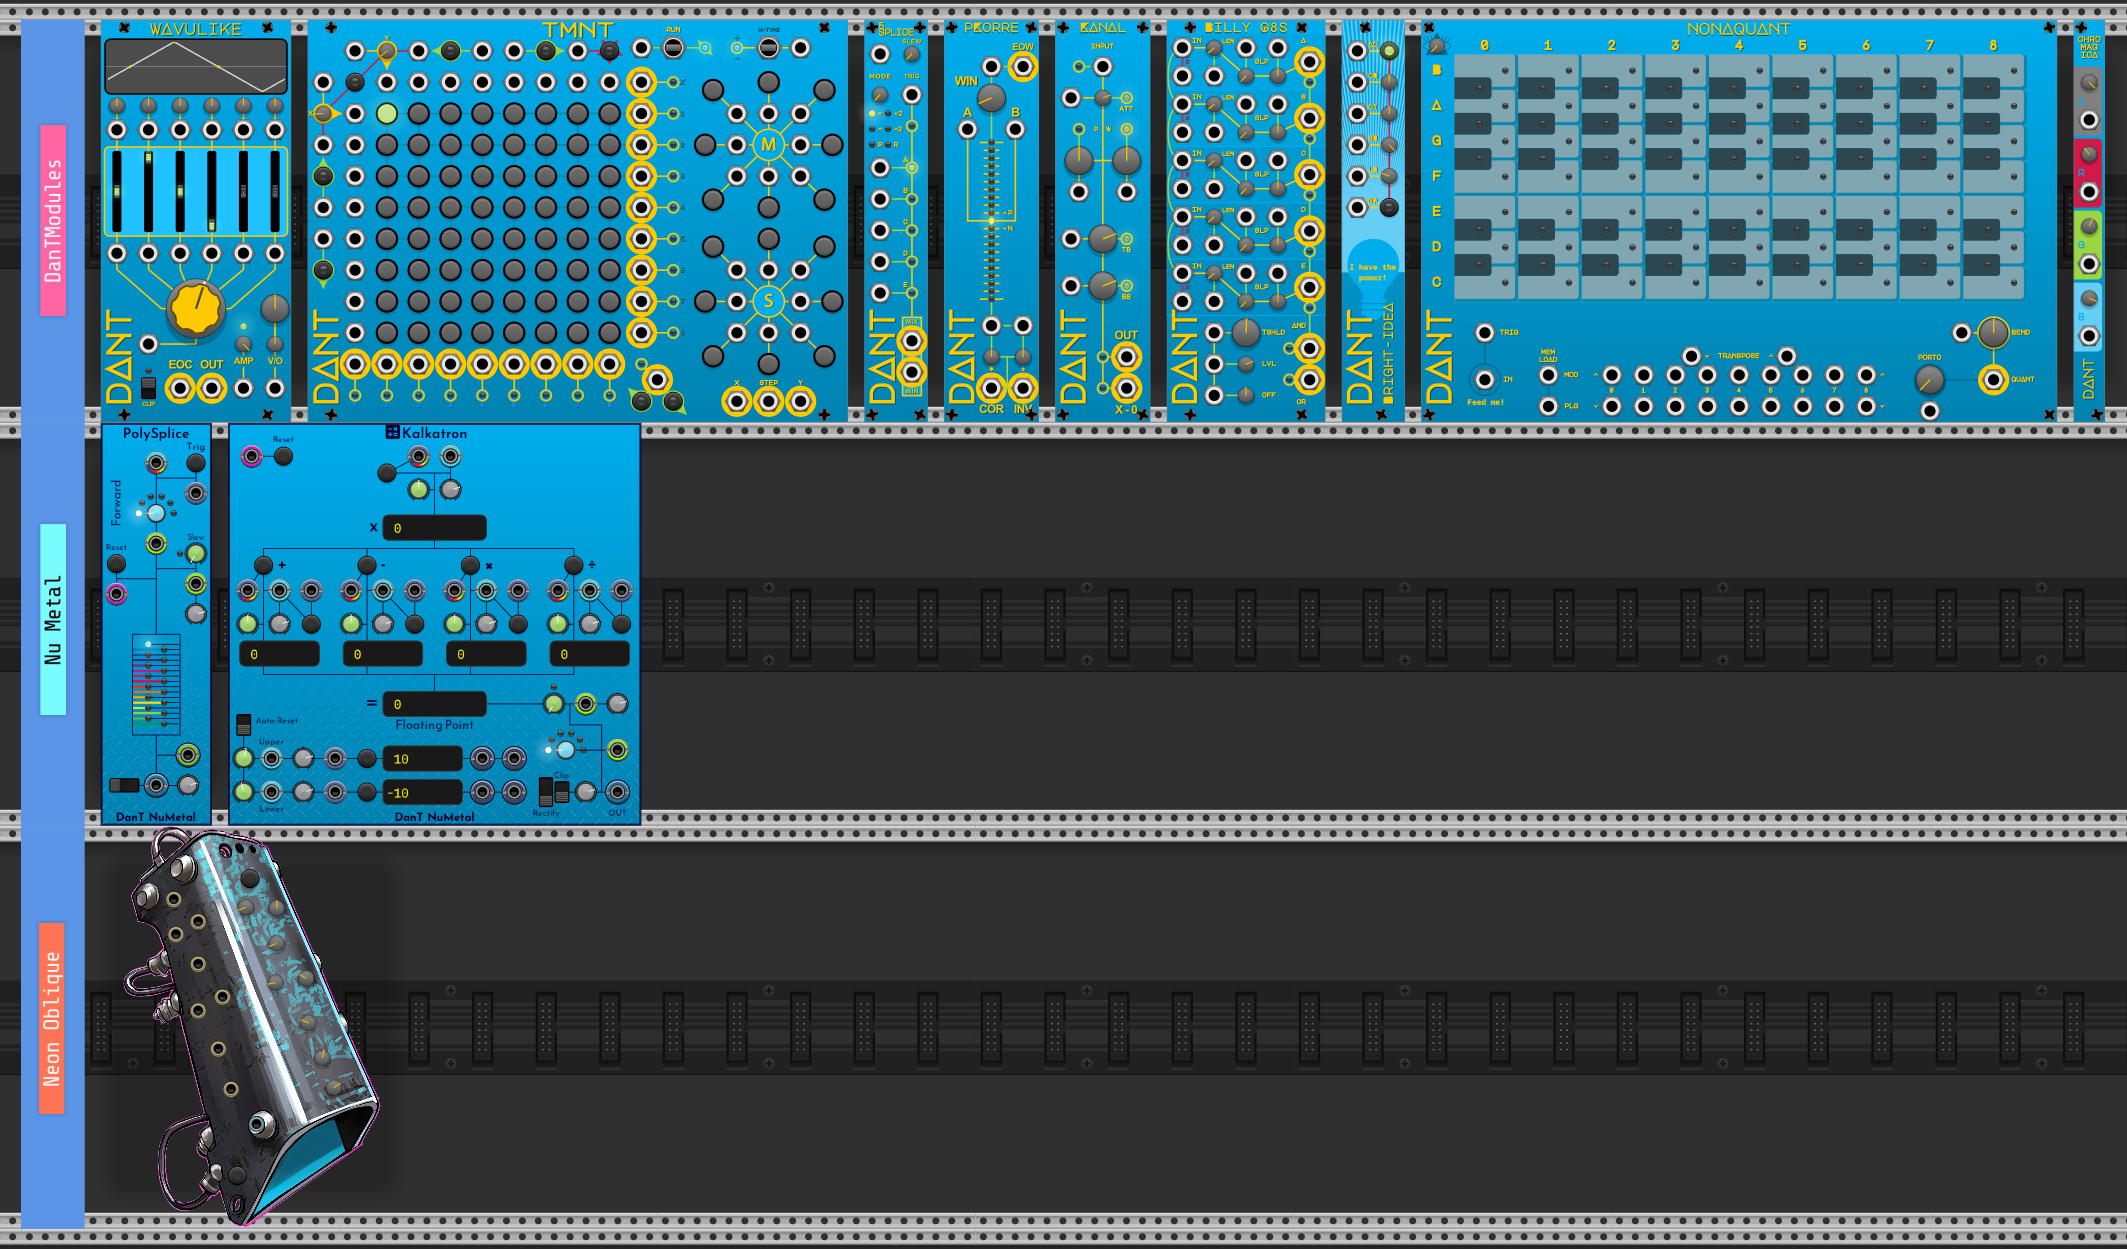
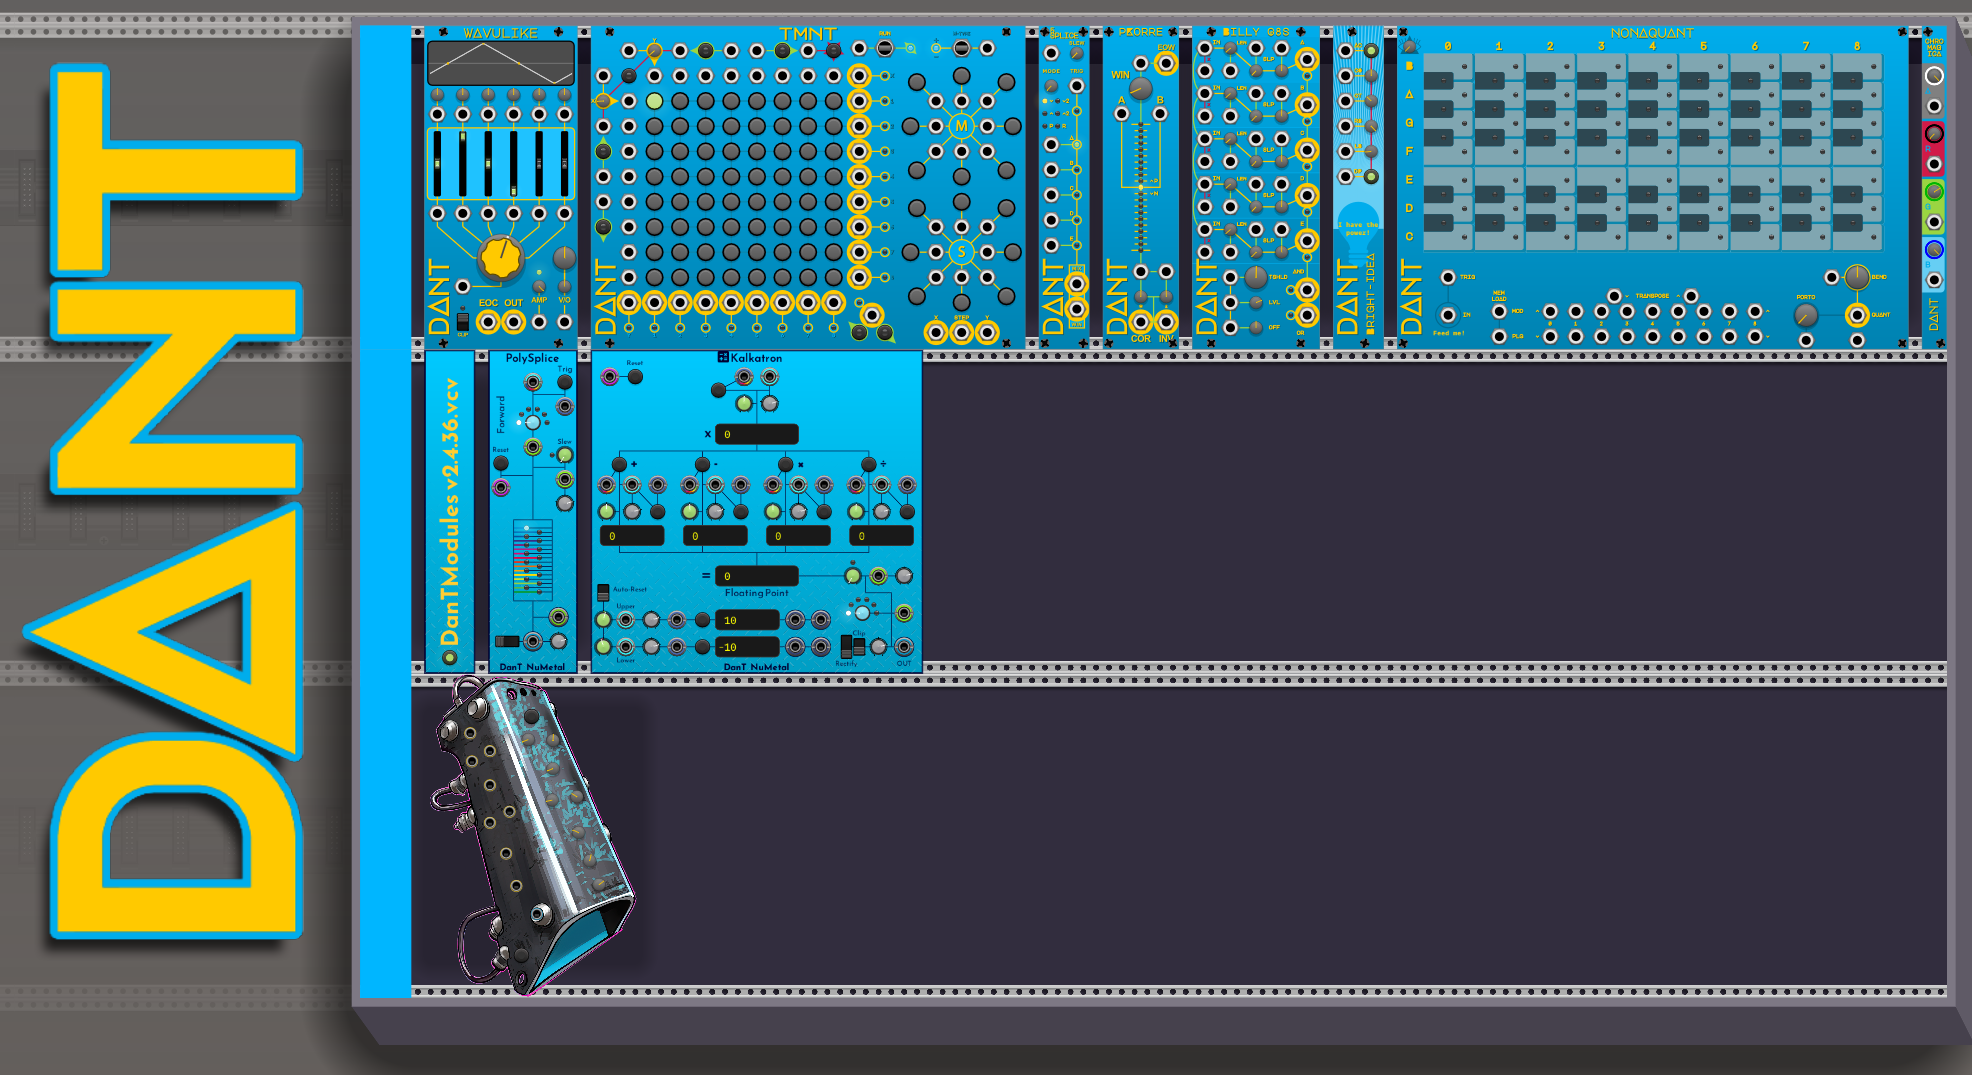
v2.4.36 update

diff --git a/content/manual/purfenator/index.md b/content/manual/purfenator/index.md
@@ -1,0 +1,77 @@
+---
+title: 'Purfenator'
+date: 2023-12-20T12:00:00
+weight: 12
+---
+
+- [Overview](#overview)
+  - [Controls](#controls)
+
+## Overview
+
+**`4hp`**
+
+Purfenator is a module designed to make creating nice backdrops directly within VCV Rack as easy as
+possible. It was inspired by this [video](https://youtu.be/5FeWTLwftUM?si=liYuLl64j3U93Gbo) from
+[Urs Basteck](https://community.vcvrack.com/u/purf/summary).
+
+![NuMetal-Purfenator](/DanTModules-Manual/images/purfenator.png)
+
+### Controls
+
+There is only one control on the module, which is the active button. When lit the module is active
+and will draw the backdrop, when unlit the backdrop will not be drawn.
+
+All the configuration and controls for customising the backdrop can be found in the right-click
+context menu under the `Purf Stylee` heading:
+
+* `Patch Title` - the patch title is the name of the current patch save file and is displayed on the
+  module.
+  * `Draw title` - When active the title will be displayed on the moduel panel, when not active the
+    module panel will be blank except for the active button.
+  * `Flip title` - When active the title will read from top to bottom, when not active the title
+    will read from bottom to top.
+  * `Bright title` - When active the title will bypass the room brightness and act like a light.
+  * `Font size` - Controls the size of the text on the module panel.
+  * `Colour rgba` - Controls the colour and transparency of the text on the module panel.
+* `Colour Background` - Creates a layer below the modules and fill it with colour.
+  * `Draw background` - Activate and deactivates this element.
+  * `Gradient` - When active the the background will be a linear gradient from top to bottom.
+  * `Colour rgba` - Controls the colour and transparency of the main background colour.
+  * `Gradient rgba` - Controls the colour and transparency of the secondary gradient colour.
+* `Image Background` - Creates a layer that can render an image.
+  * ` - Load image` - Opens an OS file dialog where you can select an image file.
+  * `Draw background` - Activate and deactivates this element.
+  * `Image on top of colour` - When active the image will be drawn on top of the colour background
+    layer, this means images with transparency can be rendered over different colour backgrounds.
+    When not active the image will be drawn underneath the colour background layer, this means the
+    image can be tinted or desaturated by reducing the colour background alpha value.
+  * `Tiled` - When active the image will be tiled to fill the screen.
+  * `Ignore zoom` - When active the image will ignore the Rack zoom setting and remain at a fixed
+    size, when not active the image will change size when the zoom level is changed.
+  * `Scale` - Controls the size of the image.
+  * `Image position` - Controls the anchor point relative to the screen for the image.
+  * `Width/Height offset` - Controls the amount to move the image relative to itself. This can be
+    used to tweak where the repeat happens for a tiled image for example.
+  * `X/Y offset` - Controls the amount to move the image relative to its screen anchor point.
+  * ` - Clear image` - Remove the currently displayed image.
+* `Skiff` - Creates virtual [skiffs](https://www.google.com/search?q=What+is+a+modular+skiff) around
+  the modules added to the patch.
+  * `Draw skiff` - When active the box of the skiff will be rendered.
+  * `Draw bezel` - When active the lip of the skiff box will be rendered.
+  * `Draw rails` - When active rails will be rendered inside the skiff box
+  * `Draw shadow` - When active a shadow will be rendered under the skiff box.
+  * `Multimode` - When not active only one skiff box will be drawn that encompasses all the modules
+    added to the patch. Activating multimode allows that single skiff box to be split into multiple
+    boxes, and is controlled by the following two parameters.
+  * ` - Split vertically` - When enabled the skiff box will be split by any empty row.
+  * `Horizontal threshold` - When not disabled, any gaps between modules larger than this value will
+    split the skiff box.
+  * `Skiff depth` - Controls the size of the skiff box sides.
+  * `Bezel size` - Controls the width of the lip of the skiff box.
+  * `Shadow size` - Controls how far the shadow extends from the skiff box.
+  * `Shadow softness` - Controls how blurry the shadow is.
+  * `Shadow intensity` - Controls how dark the shadow is.
+  * `Skiff colour rgb` - Controls the colour of the skiff box sides and lip.
+  * `Inside colour rgb` - Controls the colour of the inside of the skiff box.
+

diff --git a/content/manual/neon-oblique/index.md b/content/manual/neon-oblique/index.md
@@ -1,7 +1,7 @@
 ---
 title: 'Neon-Oblique'
 date: 2023-08-21T12:00:00
-weight: 13
+weight: 14
 ---
 
 - [Overview](#overview)

diff --git a/content/manual/kalkatron/index.md b/content/manual/kalkatron/index.md
@@ -1,7 +1,7 @@
 ---
 title: 'Kalkatron'
 date: 2023-08-04T12:00:00
-weight: 12
+weight: 13
 ---
 
 - [Overview](#overview)
